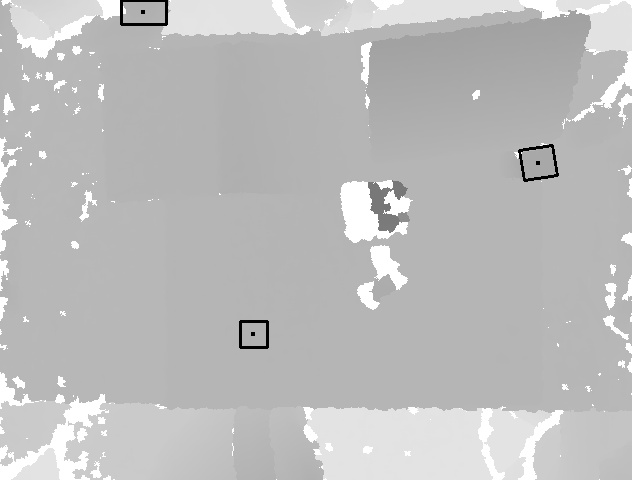
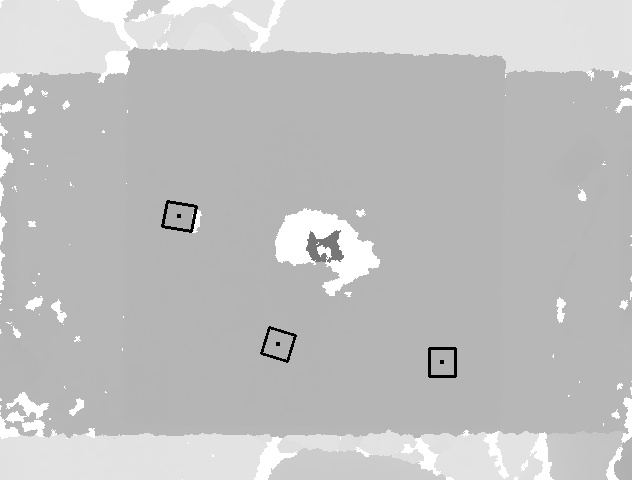
depth blob works

diff --git a/kinect.py b/kinect.py
@@ -162,9 +162,9 @@ class Kinect():
 
         # Defining np array for storing block coordinates
         block_coordinates=np.array([])
-
         # For each threshold in stack performing the below operations (This is used to detect block stacks up to 5)
-
+        count = 0
+        countin = 0
         for i in range(len(stack_thresh_lower_array)):
             # Thresholding the image
             mask = cv2.inRange(depth_frame, stack_thresh_lower_array[i], stack_thresh_higher_array[i])
@@ -179,18 +179,23 @@ class Kinect():
             # Find the largest contour and ensuring area is within a defined limit
             contour_sizes = [(cv2.contourArea(contour), contour) for contour in contours if (cv2.contourArea(contour)>400 and cv2.contourArea(contour)<900)]
             # biggest_contour = max(contour_sizes, key=lambda x: x[0])[1]
-
+            if i == 0:
+                block_contours = []
+            # print(contours)
             for contour in contours:
                 if (cv2.contourArea(contour)>400 and cv2.contourArea(contour)<900):
-                    self.block_contours =  np.append(self.block_contours,contour)
-            print(self.block_contours.shape[0])
-            
+                    countin +=1
+                    block_contours.append(contour)
+            # print(block_contours)
             # Drawing the largest contour
+
             # cv2.drawContours(depth_frame, biggest_contour, -1, (255,255,0), 3)
 
             # Drawing a bounding rectangle for the detected box
-            for contour in contour_sizes:
-                rect = cv2.minAreaRect(contour[1])
+            for contour in block_contours:
+                count += 1
+                print(contour)
+                rect = cv2.minAreaRect(contour)
                 box = cv2.boxPoints(rect)
                 box = np.int0(box)
                 center=rect[0]
@@ -230,6 +235,7 @@ class Kinect():
 
             # # Marking the COMon the image
             # img[cy-2:cy+2,cx-2:cx+2]=[0,0,255]
+        self.block_contours = block_contours
         cv2.imwrite('test.jpg',depth_frame)
         # cv2.namedWindow("window",cv2.WINDOW_AUTOSIZE)
         # cv2.namedWindow("mask",cv2.WINDOW_AUTOSIZE)
@@ -286,3 +292,4 @@ class Kinect():
         # print (color)
 
         # pass
+        return

diff --git a/control_station.py b/control_station.py
@@ -325,9 +325,13 @@ class Gui(QMainWindow):
                     Z = 12.36 * np.tan(float(z)/2842.5 + 1.1863)
                     # 95 cm marks the z location of the base plane wrt to the camera. Subtracting 95 to measure +z from the base plane
                     Z_modified = 95-Z
+                    affine_dep2rgb=self.sm.return_depth2rgb()
 
-                 	#############################################
-                 	# 		CAMERA FRAME TO WORLD FRAME         #
+                    self.kinect.currentDepthFrame=cv2.warpAffine(self.kinect.currentDepthFrame,affine_dep2rgb,(480,640))
+
+                    cv2.imwrite('test2.jpg',self.kinect.currentDepthFrame)
+                    #############################################
+                    # 		CAMERA FRAME TO WORLD FRAME         #
                  	#############################################
 
                     # Extracting the origin of the camera frame (Following 4 quadrant system)

diff --git a/blob_kinect_depth.py b/blob_kinect_depth.py
@@ -49,7 +49,7 @@ stack_thresh_higher_array=np.array([[177],[175],[170],[165],[160]])
 # find color at that specific location
 
 # # Performing Operations on camera frames to process the output for all the colors
-
+count = 0
 for i in range(len(stack_thresh_lower_array)):
 	# Thresholding the image
 	mask = cv2.inRange(depth_frame, stack_thresh_lower_array[i], stack_thresh_higher_array[i])
@@ -75,7 +75,7 @@ for i in range(len(stack_thresh_lower_array)):
 
 # 	# Drawing a bounding rectangle for the detected box
 	for contour in contour_sizes:
-
+		count+=1
 		rect = cv2.minAreaRect(contour[1])
 		box = cv2.boxPoints(rect)
 		box = np.int0(box)
@@ -109,7 +109,7 @@ for i in range(len(stack_thresh_lower_array)):
 
 # 	# # Marking the COMon the image
 # 	# img[cy-2:cy+2,cx-2:cx+2]=[0,0,255]
-
+print(count)
 cv2.namedWindow("window",cv2.WINDOW_AUTOSIZE)
 cv2.namedWindow("mask",cv2.WINDOW_AUTOSIZE)
 cv2.imshow('window', depth_frame)

diff --git a/state_machine.py b/state_machine.py
@@ -88,7 +88,7 @@ class StateMachine():
                 self.idle()
         
         if(self.current_state == "block_detect"):
-            if(self.set_next_state == "idle"):
+            if(self.next_state == "idle"):
                 self.idle()
 
         if(self.current_state == "estop"):
@@ -239,6 +239,7 @@ class StateMachine():
 
         affine_rgb2depth = cv2.getAffineTransform(rgb_coords, depth_coords) #changed to affine from perspective
         affine_depth2rgb = cv2.getAffineTransform(depth_coords, rgb_coords)
+        
 
         ##################
         #Trying Solve PnP#
@@ -505,6 +506,7 @@ class StateMachine():
         self.status_message = "Detecting Blocks"
         self.current_state = "block_detect"
         self.kinect.detectBlocksInDepthImage()
+        print("we back son")
         self.next_state = "idle"
 
     def FK_check(self):
